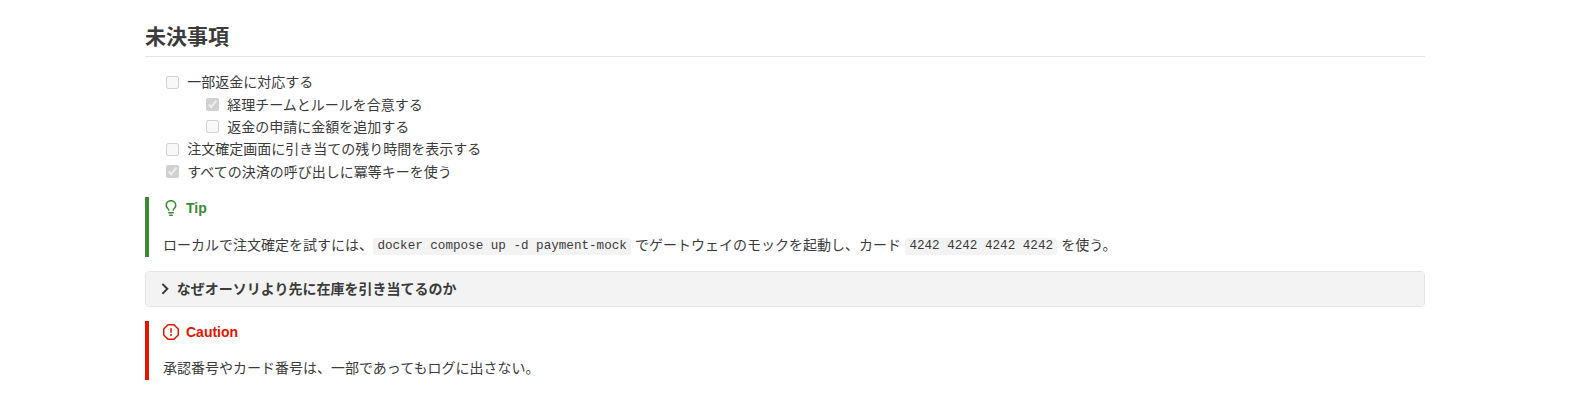
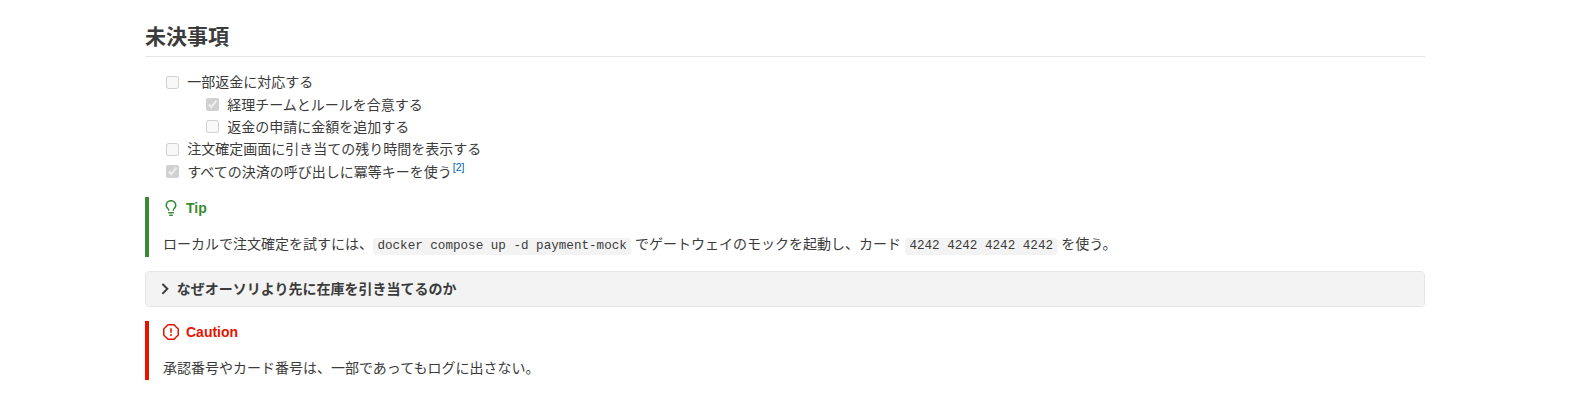
screenshot.md に長い表と脚注を加え、HTML エクスポートを GitHub Pages に公開する
- examples/screenshot.md / screenshot.ja.md にエラーコードの長い表（ヘッダ行の固定）と脚注を追加
- スクリーンショットの節の切り出しを脚注の一覧の手前で止め、変わった画像を撮り直す
- Release の公開時（と手動実行）に 2 つのサンプルをエクスポートして Pages に出す pages.yml を追加
- CI の examples のエクスポートを --strict にする
- README と CLI の README にサンプルへのリンクを追加

diff --git a/scripts/screenshots.ts b/scripts/screenshots.ts
@@ -227,8 +227,8 @@ async function highlight(page: Page, title: string, heading: string, top?: numbe
 }
 
 /**
- * Scrolls to the h2 `title` and returns the area from it to the next h2 (or the end of the document),
- * without the table of contents at the right edge.
+ * Scrolls to the h2 `title` and returns the area from it to the next h2 (or the footnotes gathered at the end of the document,
+ * or the end of the document), without the table of contents at the right edge.
  */
 async function sectionClip(page: Page, title: string): Promise<Clip> {
   await page.addStyleTag({ content: '.seqnotes-toc { display: none; }' });
@@ -239,7 +239,7 @@ async function sectionClip(page: Page, title: string): Promise<Clip> {
     }
     window.scrollTo(0, h2.getBoundingClientRect().top + window.scrollY - 24);
     let last: Element = h2;
-    for (let el = h2.nextElementSibling; el && el.tagName !== 'H2'; el = el.nextElementSibling) {
+    for (let el = h2.nextElementSibling; el && el.tagName !== 'H2' && !el.matches('.footnotes-sep, .footnotes'); el = el.nextElementSibling) {
       last = el;
     }
     const top = Math.max(0, h2.getBoundingClientRect().top - 24);

diff --git a/examples/screenshot.ja.md b/examples/screenshot.ja.md
@@ -89,7 +89,7 @@ WHERE sku = $1 AND quantity - reserved >= $2;
 
 ### 引き当て ID
 
-注文が確定しなければ、引き当ては 15 分で失効する。
+注文が確定しなければ、引き当ては 15 分で失効する[^expiry]。
 
 ### 5. オーソリ
 
@@ -233,6 +233,34 @@ graph LR
 
 <!-- link-headings:end -->
 
+## エラーコード
+
+注文 API のエラー。エラーのレスポンスの本文は `{ "code": "ORD-011", "message": "..." }`。
+
+| コード | HTTP ステータス | 意味 | クライアントの対応 |
+|---|---|---|---|
+| `ORD-001` | 400 | リクエストの本文が JSON として正しくない。 | リクエストを直す。 |
+| `ORD-002` | 400 | 必須の項目がない。 | リクエストを直す。 |
+| `ORD-003` | 400 | `Idempotency-Key` ヘッダがない。 | ヘッダを付ける。 |
+| `ORD-004` | 400 | `quantity` が正の整数でない。 | リクエストを直す。 |
+| `ORD-005` | 400 | 1 回の注文の商品が多すぎる（最大 100）。 | 注文を分ける。 |
+| `ORD-006` | 401 | アクセストークンがないか、期限切れ。 | ログインし直す。 |
+| `ORD-007` | 402 | 決済が拒否された。 | 別の支払い方法を選んでもらう。 |
+| `ORD-008` | 402 | カードの有効期限が切れている。 | 別のカードを選んでもらう。 |
+| `ORD-009` | 402 | 3-D セキュアの認証に失敗した。 | 認証をやり直す。 |
+| `ORD-010` | 403 | アカウントが停止されている。 | 問い合わせ先を表示する。 |
+| `ORD-011` | 404 | カートが存在しない。 | カートを読み直す。 |
+| `ORD-012` | 404 | 配送先が存在しない。 | 配送先を選び直してもらう。 |
+| `ORD-013` | 404 | 支払い方法が存在しない。 | 支払い方法を選び直してもらう。 |
+| `ORD-014` | 409 | 在庫切れの商品がある。 | 在庫数を表示して選び直してもらう。 |
+| `ORD-015` | 409 | 注文確定の途中でカートが変わった。 | 新しいカートを表示する。 |
+| `ORD-016` | 409 | `Idempotency-Key` が別のカートで使われている。 | 新しいキーを作る。 |
+| `ORD-017` | 422 | 配送先が配送エリアの外にある。 | 別の配送先を選んでもらう。 |
+| `ORD-018` | 422 | 合計金額が最低注文金額に満たない。 | 最低注文金額を表示する。 |
+| `ORD-019` | 429 | リクエストが多すぎる。 | `Retry-After` の後にリトライする。 |
+| `ORD-020` | 502 | 決済ゲートウェイが応答しなかった。 | 注文一覧を確かめてからリトライする。 |
+| `ORD-021` | 503 | 在庫サービスが利用できない。 | 時間をおいてリトライする。 |
+
 ## 返金（草案）
 
 ```mermaid
@@ -273,7 +301,7 @@ sequenceDiagram
   - [x] 経理チームとルールを合意する
   - [ ] 返金の申請に金額を追加する
 - [ ] 注文確定画面に引き当ての残り時間を表示する
-- [x] すべての決済の呼び出しに冪等キーを使う
+- [x] すべての決済の呼び出しに冪等キーを使う[^idempotency]
 
 > [!TIP]
 > ローカルで注文確定を試すには、`docker compose up -d payment-mock` でゲートウェイのモックを起動し、カード `4242 4242 4242 4242` を使う。
@@ -287,3 +315,6 @@ sequenceDiagram
 
 > [!CAUTION]
 > 承認番号やカード番号は、一部であってもログに出さない。
+
+[^expiry]: 数分かかることのある 3-D セキュアの認証に足りる長さにしている。失効した引き当ては、バッチが 1 分ごとに解放する。
+[^idempotency]: ゲートウェイはキーを 24 時間保持する。それより後にリトライすると、二重に決済されてしまう。

diff --git a/examples/screenshot.md b/examples/screenshot.md
@@ -89,7 +89,7 @@ WHERE sku = $1 AND quantity - reserved >= $2;
 
 ### Reservation ID
 
-The reservation expires after 15 minutes if the order is not confirmed.
+The reservation expires after 15 minutes[^expiry] if the order is not confirmed.
 
 ### 5. Authorize payment
 
@@ -233,6 +233,34 @@ The order was cancelled before shipping. The authorization is voided.
 
 <!-- link-headings:end -->
 
+## Error codes
+
+The errors of the Order API. The body of an error response is `{ "code": "ORD-011", "message": "..." }`.
+
+| Code | HTTP status | Meaning | Client action |
+|---|---|---|---|
+| `ORD-001` | 400 | The request body is not valid JSON. | Fix the request. |
+| `ORD-002` | 400 | A required field is missing. | Fix the request. |
+| `ORD-003` | 400 | The `Idempotency-Key` header is missing. | Add the header. |
+| `ORD-004` | 400 | `quantity` is not a positive integer. | Fix the request. |
+| `ORD-005` | 400 | Too many items in one order (max 100). | Split the order. |
+| `ORD-006` | 401 | The access token is missing or has expired. | Log in again. |
+| `ORD-007` | 402 | The payment was declined. | Ask for another payment method. |
+| `ORD-008` | 402 | The card has expired. | Ask for another card. |
+| `ORD-009` | 402 | The 3-D Secure check failed. | Retry the check. |
+| `ORD-010` | 403 | The account is suspended. | Show the support contact. |
+| `ORD-011` | 404 | The cart does not exist. | Reload the cart. |
+| `ORD-012` | 404 | The shipping address does not exist. | Ask for an address again. |
+| `ORD-013` | 404 | The payment method does not exist. | Ask for a payment method again. |
+| `ORD-014` | 409 | An item is out of stock. | Show the stock and ask again. |
+| `ORD-015` | 409 | The cart changed while checking out. | Show the new cart. |
+| `ORD-016` | 409 | The `Idempotency-Key` was used for another cart. | Create a new key. |
+| `ORD-017` | 422 | The address is outside the delivery area. | Ask for another address. |
+| `ORD-018` | 422 | The total is below the minimum order. | Show the minimum. |
+| `ORD-019` | 429 | Too many requests. | Retry after `Retry-After`. |
+| `ORD-020` | 502 | The payment gateway did not answer. | Check the order list before retrying. |
+| `ORD-021` | 503 | The inventory service is unavailable. | Retry later. |
+
 ## Refund (draft)
 
 ```mermaid
@@ -273,7 +301,7 @@ Returned items are checked and added back to the stock.
   - [x] Agree on the rules with the finance team
   - [ ] Add an amount to the refund request
 - [ ] Show the reservation timer on the checkout page
-- [x] Use idempotency keys for every payment call
+- [x] Use idempotency keys for every payment call[^idempotency]
 
 > [!TIP]
 > To try the checkout locally, start the gateway mock with `docker compose up -d payment-mock` and use the card `4242 4242 4242 4242`.
@@ -287,3 +315,6 @@ If the payment is authorized first and the stock then runs out, the authorizatio
 
 > [!CAUTION]
 > Never log the authorization code or any part of the card number.
+
+[^expiry]: Long enough for a 3-D Secure check, which can take several minutes. A job releases the expired reservations every minute.
+[^idempotency]: The gateway keeps a key for 24 hours. A retry after that would create a second payment.

diff --git a/README.ja.md b/README.ja.md
@@ -12,6 +12,8 @@
 
 ![左にシーケンス図、右に紐付いた処理概要](images/screenshot.ja.png)
 
+**[サンプル](https://playree.github.io/markdown-design-doc-viewer/ja/)**: 設計書（[examples/screenshot.ja.md](examples/screenshot.ja.md)）を HTML にエクスポートしたものです。矢印や見出しにマウスを載せて、ブラウザでハイライトを試せます。
+
 ## 機能
 
 - **横並び表示**: プレビューの幅が十分にあるとき、左に図（スクロールしても固定）、右に処理概要を表示します（紐付いた項目の間には区切り線が入ります）。幅が狭いときは通常の縦並びになります。

diff --git a/README.md b/README.md
@@ -12,6 +12,8 @@ Each arrow (or flowchart node) in the diagram is linked to a heading in the desc
 
 ![Sequence diagram on the left, linked step descriptions on the right](images/screenshot.png)
 
+**[Live sample](https://playree.github.io/markdown-design-doc-viewer/)**: a design document exported to HTML ([examples/screenshot.md](examples/screenshot.md)). Hover the arrows and headings to try the highlighting in your browser.
+
 ## Features
 
 - **Side-by-side layout** — when the preview is wide enough, the diagram stays on the left (sticky) while the descriptions scroll on the right, with a line between linked steps. On narrow panes it falls back to the normal vertical layout.

diff --git a/CHANGELOG.md b/CHANGELOG.md
@@ -1,5 +1,9 @@
 # Changelog
 
+## Unreleased
+
+- A sample design document exported to HTML is published on GitHub Pages ([English](https://playree.github.io/markdown-design-doc-viewer/), [Japanese](https://playree.github.io/markdown-design-doc-viewer/ja/)), to try the arrow ⇔ heading highlighting, sticky table headers and footnote popups in a browser.
+
 ## 0.5.0
 
 - The HTML export runs from the command line too, to convert documents in CI or in a batch: `npx markdown-design-doc-viewer export docs -o site`. The diagrams are rendered with headless Chrome, link warnings are reported (as annotations in GitHub Actions), and `--strict` fails on them.

diff --git a/docs/cli.md b/docs/cli.md
@@ -12,6 +12,8 @@ The HTML is the same as the VS Code extension's `Export Design Doc as HTML` comm
 
 ![Sequence diagram on the left, linked step descriptions on the right](https://raw.githubusercontent.com/playree/markdown-design-doc-viewer/main/images/screenshot.png)
 
+**[Live sample](https://playree.github.io/markdown-design-doc-viewer/)**: an HTML file written by this command from [examples/screenshot.md](https://github.com/playree/markdown-design-doc-viewer/blob/main/examples/screenshot.md).
+
 ## Usage
 
 ```sh

diff --git a/docs/cli.ja.md b/docs/cli.ja.md
@@ -12,6 +12,8 @@
 
 ![左にシーケンス図、右に紐付いた処理概要](https://raw.githubusercontent.com/playree/markdown-design-doc-viewer/main/images/screenshot.ja.png)
 
+**[サンプル](https://playree.github.io/markdown-design-doc-viewer/ja/)**: このコマンドで [examples/screenshot.ja.md](https://github.com/playree/markdown-design-doc-viewer/blob/main/examples/screenshot.ja.md) から書き出した HTML です。
+
 ## 使い方
 
 ```sh
